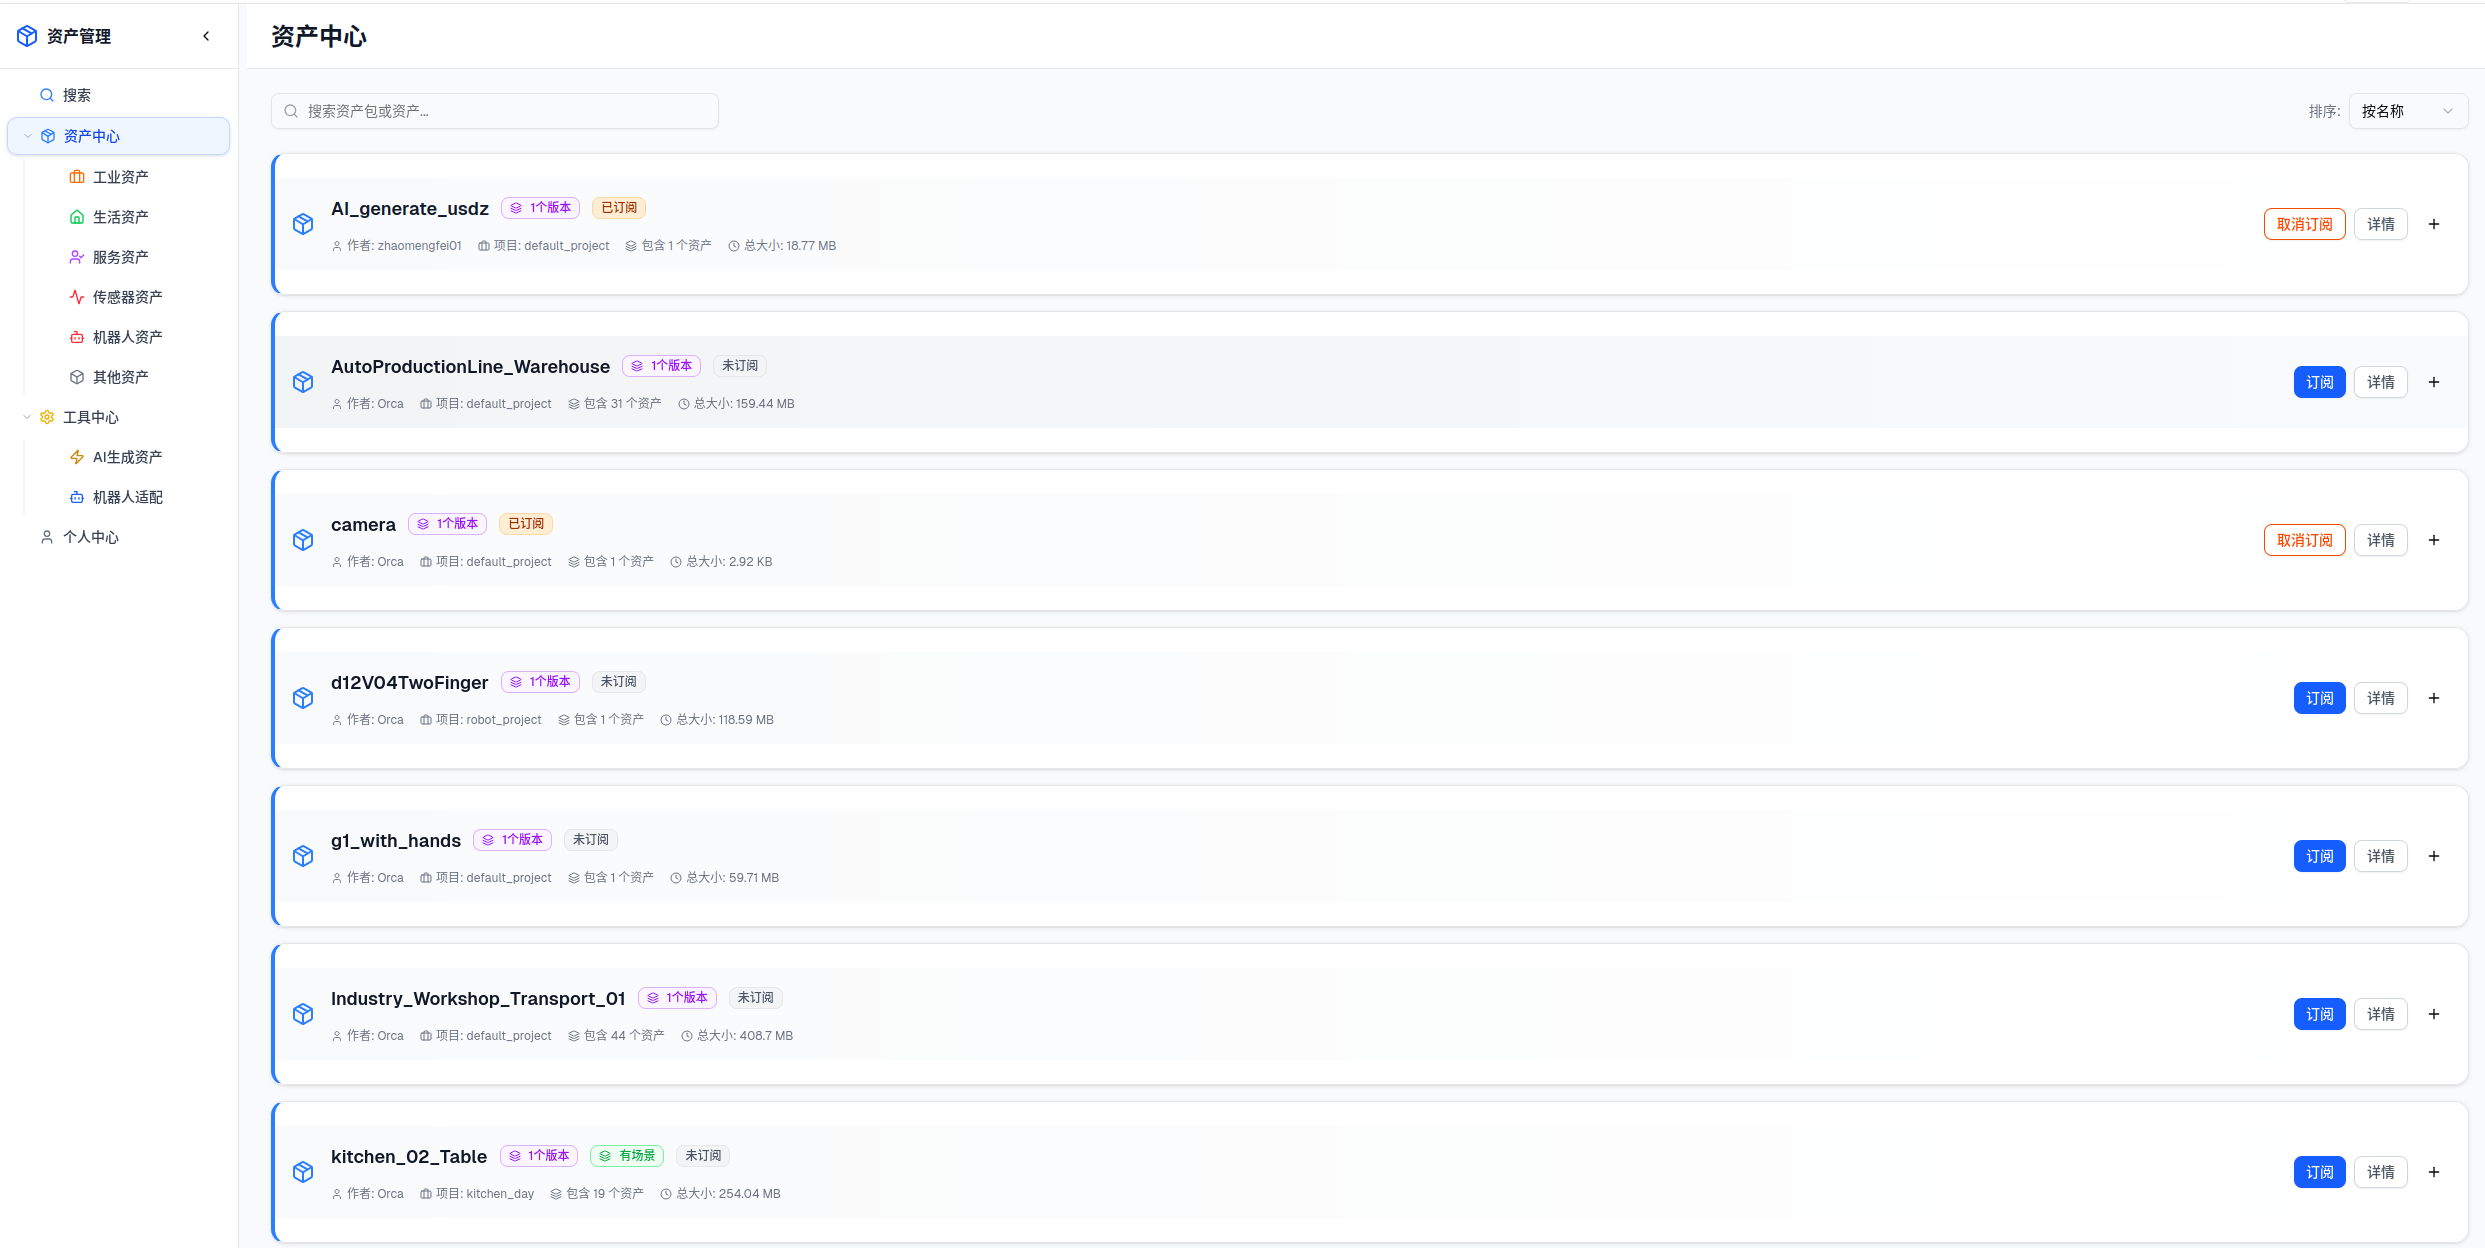
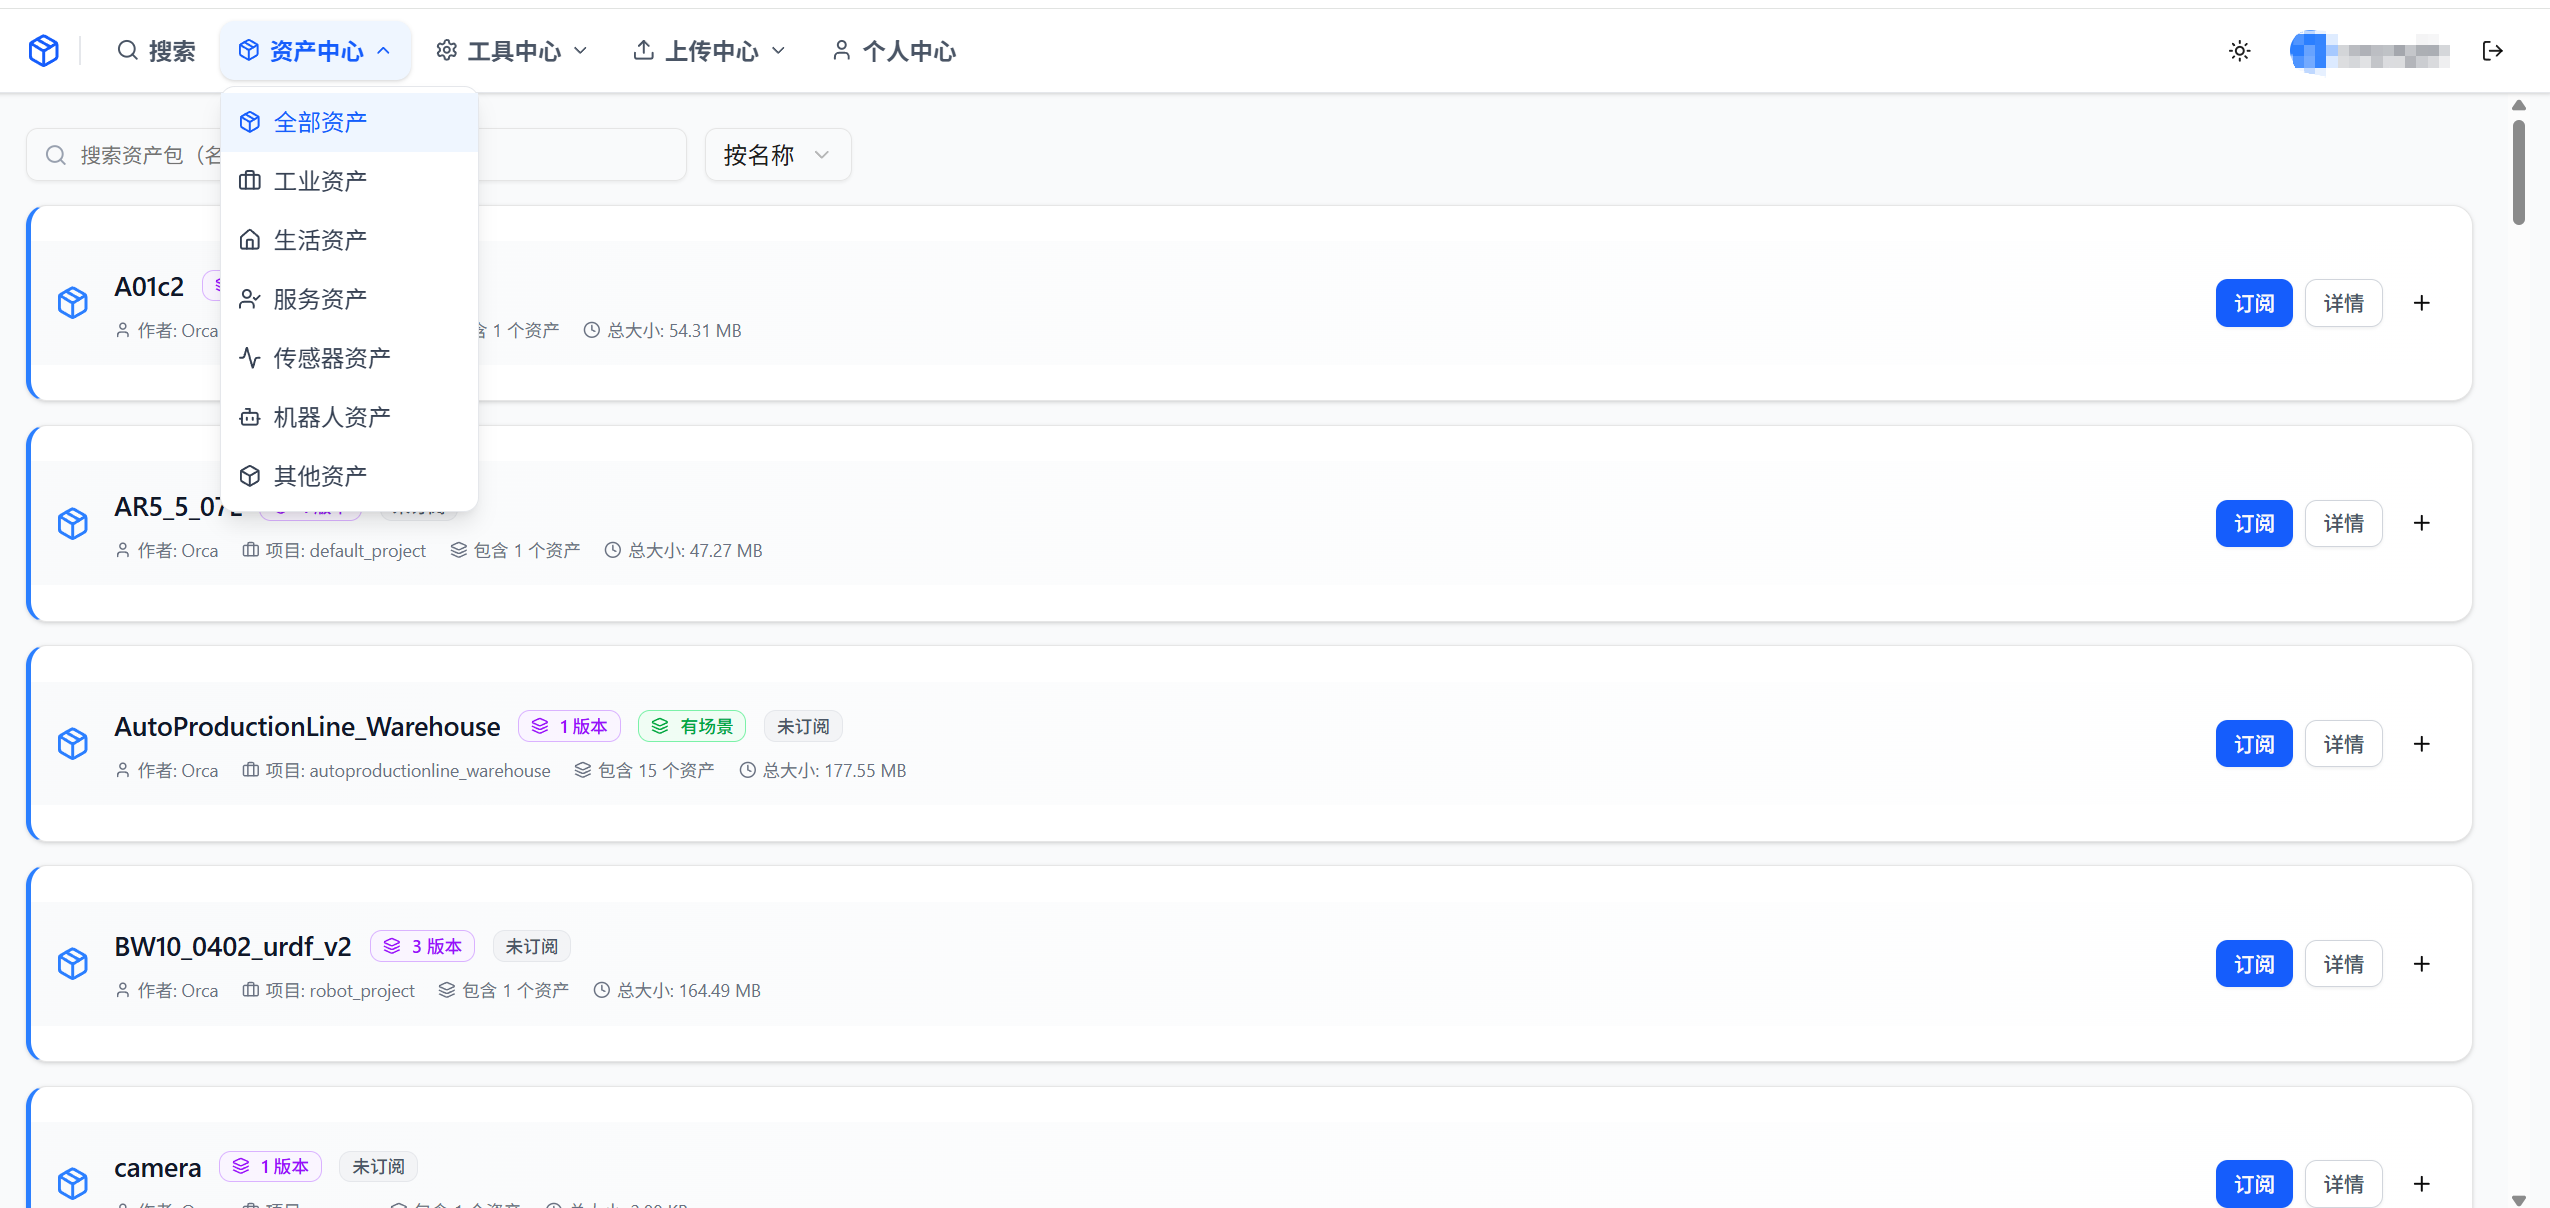
更新资产库图片及orcalab版本号

diff --git a/操作指南/资产库基础操作指南.md b/操作指南/资产库基础操作指南.md
@@ -14,9 +14,9 @@
 
   orcalab
   ```
-<img src="img/资产库基础操作指南/打开资产库.png" width="77%">
-<img src="img/资产库基础操作指南/内容布局.png" width="77%">
 
+![](../img/资产库基础操作指南/打开资产库.png)
+![](../img/资产库基础操作指南/assets.png)
 
 ### 资产管理
 - 搜索：支持对资产中心的所有资产进行图片参考或文字描述两种方式搜索。
@@ -35,13 +35,12 @@
 ### 搜索
 提供参考图片、文字描述两种搜索方式。
 
-<img src="img/资产库基础操作指南/图片搜索.png" width="77%">
-<img src="img/资产库基础操作指南/文字描述搜索.png" width="77%">
+![](../img/资产库基础操作指南/assets.png)
 
 ### 资产中心
 共有工业资产、生活资产、服务资产、传感器资产、机器人资产、其他资产6种分类。可在相应类目中查找订阅所需资产。支持通过输入关键字搜索资产包或资产，支持通过按名称、按大小对资产中心的资产把包进行排序。
 
-<img src="img/资产库基础操作指南/资产中心.png" width="77%">
+![](../img/资产库基础操作指南/资产中心.png)
 
 #### 资产包详情与查看
 资产包是1个或多个资产的组合，是资产库订阅的基本单位。资产包中有作者、项目、包含资产数量、总大小等基础信息。
@@ -88,8 +87,7 @@
 **生成资产**
 支持通过【图片参考】【文字描述】两种方式生成USDZ格式3D资产。目前每个用户每天两种方式共有5次使用机会。
 
-<img src="img/资产库基础操作指南/图生3D.png" width="36.5%"> <img src="img/资产库基础操作指南/文生3D.png" width="40.5%">
-
+![](../img/资产库基础操作指南/AI生成资产.png)
 参数介绍【基本保持默认】：
 - 分离Mesh：将一个模型的网格拆分成多个独立的模型文件或资产
 - 自动生成LOD：自动为模型生成多层次细节网格。
@@ -99,18 +97,8 @@
 
 上传参考图片或文字描述，点击【开始生成资产】，生成期间，不可刷新页面，即可得到3D资产。
 
-<img src="img/资产库基础操作指南/文生3Ding.png" width="40.5%"> 
-
-<img src="img/资产库基础操作指南/生成一个碗.png" width="40.5%">
 
 
-**上传资产**
-
-点击下方【上传资产】，将生成的资产上传至个人中心，并可订阅该资产，在OrcaLab中使用
-
-<img src="img/资产库基础操作指南/上传资产.png" width="40.5%">
-
-<img src="img/资产库基础操作指南/生成资产-个人中心.png" width="40.5%">
 
 #### 机器人适配工具
 

diff --git a/环境准备/Ubuntu系统安装OrcaLab指南_v1.0.md b/环境准备/Ubuntu系统安装OrcaLab指南_v1.0.md
@@ -18,7 +18,7 @@
 - 建议驱动版本：≥535.00（RTX 40系列）或 ≥550.00（RTX 50系列）
 - 建议内存：大于32G
   
-### 1.4 ORCALab最新版本号:26.5.1
+### 1.4 ORCALab最新版本号:26.6.1
  - 2.3章节安装命令默认下载最新版本，亦可通过指定版本号安装：pip install orca-lab==xx.x.x
   
 ---

diff --git a/环境准备/Windows系统安装OrcaLab指南_v1.0.md b/环境准备/Windows系统安装OrcaLab指南_v1.0.md
@@ -18,7 +18,7 @@
 - 建议配备 NVIDIA 显卡（RTX 40/50 系列）
 - 建议内存：大于32G
 
-### 1.4 ORCALab最新版本号:26.5.1
+### 1.4 ORCALab最新版本号:26.6.1
  - 2.3章节安装命令默认下载最新版本，亦可通过指定版本号安装：pip install orca-lab==xx.x.x
 
 ---
